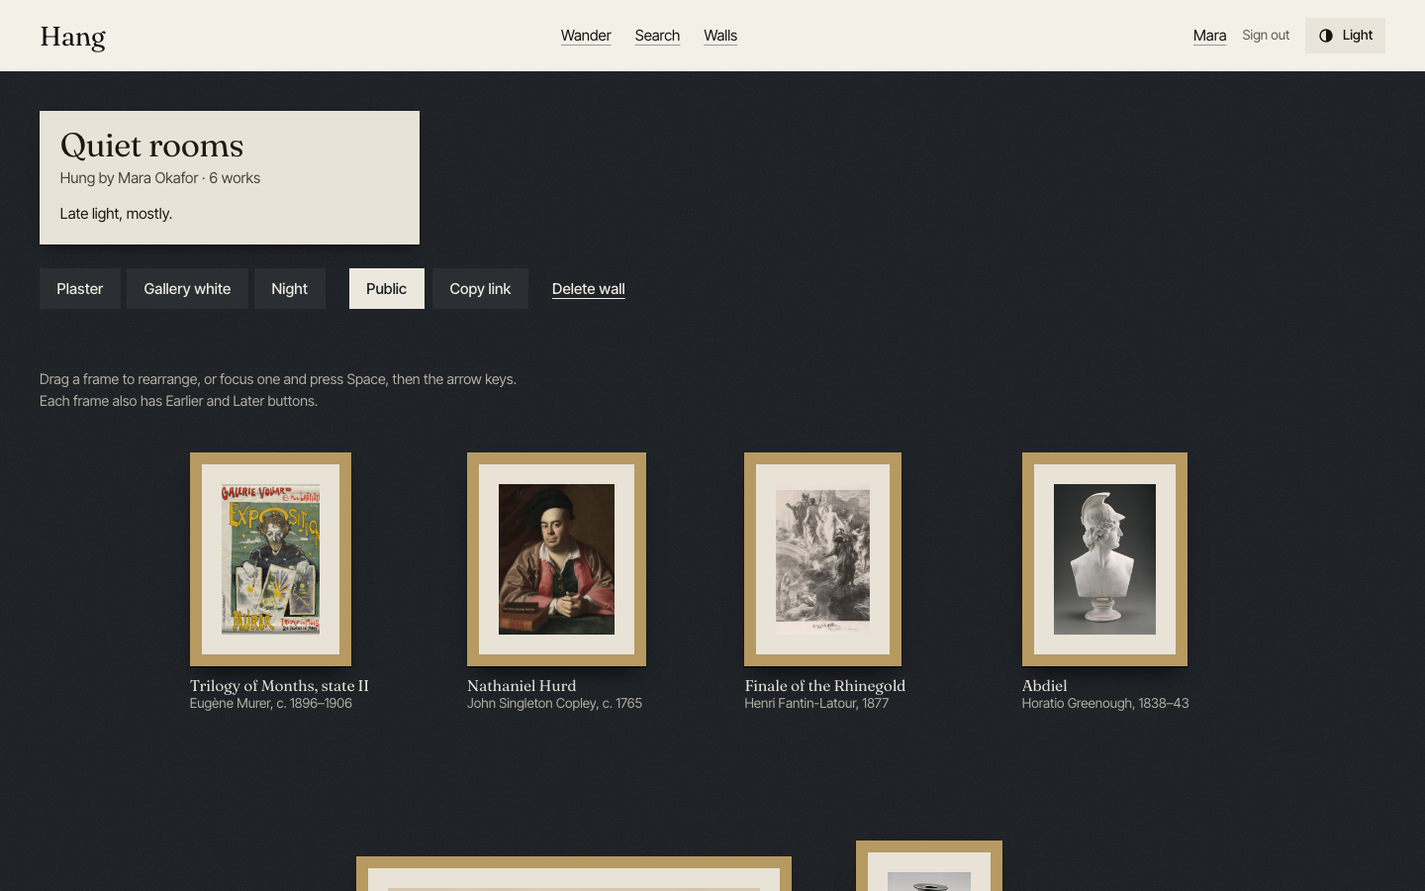
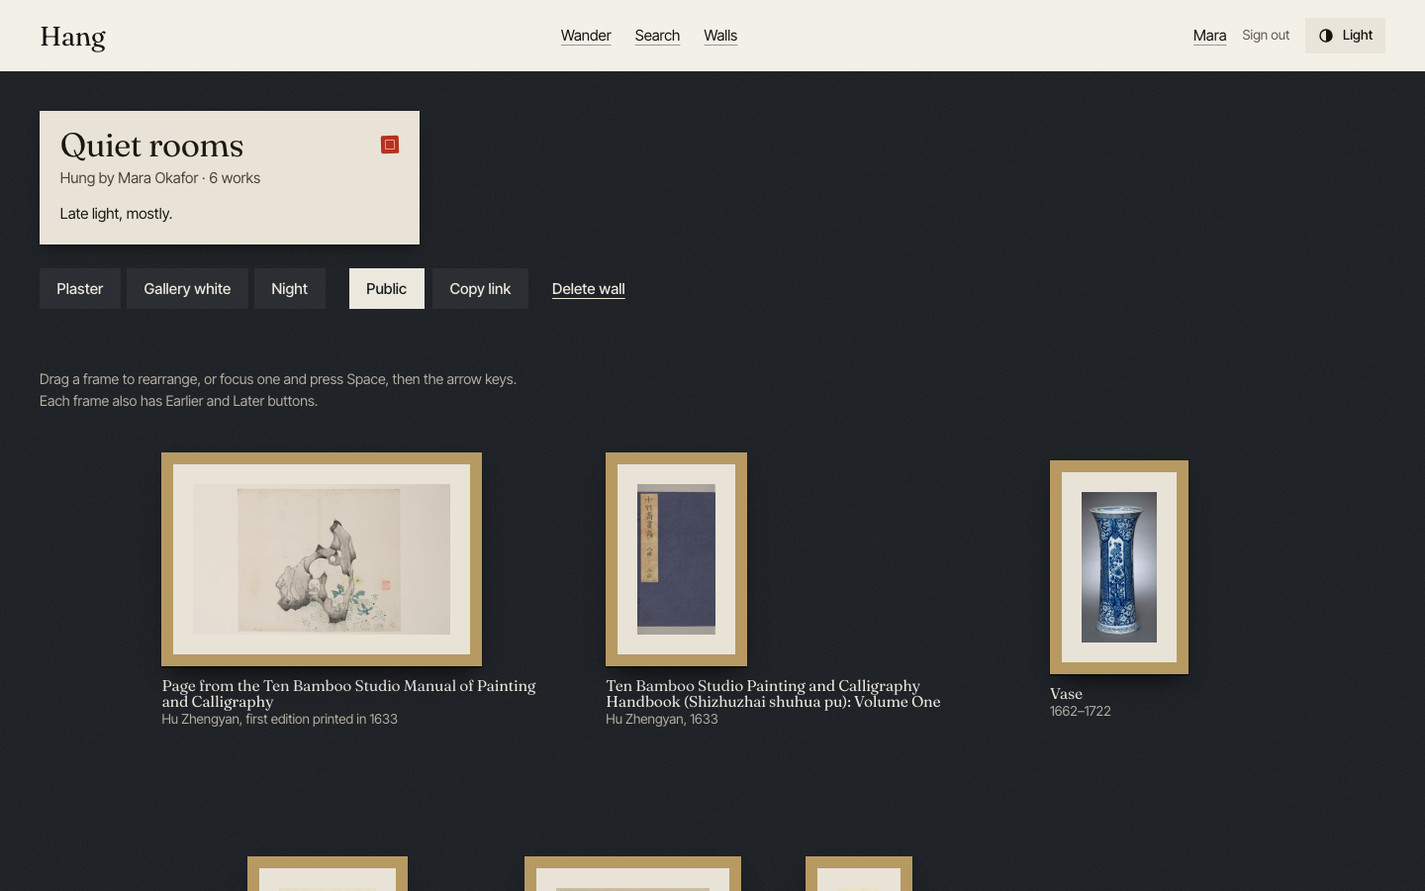
feat: Chinese art collection: dynasty and theme filters, on-theme daily piece, cinnabar accent, placard seal, updated tests, docs and screenshots

diff --git a/scripts/screenshots.ts b/scripts/screenshots.ts
@@ -1,6 +1,6 @@
 /**
  * Screenshots every page, light + dark, mobile + desktop.
- *   BASE_URL=http://localhost:3100 npm run screenshots -- pass1
+ *   BASE_URL=http://localhost:3100 npm run screenshots -- pass1 [home,search,art]   (optional page filter)
  * The server must be started with E2E_AUTH=1 so the test sign-in route exists.
  */
 import { chromium } from "@playwright/test";
@@ -8,6 +8,7 @@ import { mkdirSync } from "node:fs";
 
 const base = process.env.BASE_URL ?? "http://localhost:3100";
 const pass = process.argv[2] ?? "pass";
+const only = process.argv[3]?.split(",");
 const out = `screenshots/${pass}`;
 mkdirSync(out, { recursive: true });
 
@@ -22,6 +23,8 @@ const seed = await browser.newContext({ baseURL: base });
 await seed.request.post("/api/test/sign-in", { data: { key: "shots", name: "Mara Okafor" } });
 const wander = (await (await seed.request.get("/api/wander")).json()) as { items: Array<{ id: string }> };
 const ids = wander.items.map((i) => i.id);
+const dragons = (await (await seed.request.get("/api/search?theme=dragons&dynasty=qing,ming")).json()) as { items: Array<{ id: string }> };
+const artId = dragons.items[2]?.id ?? ids[3];
 const wall = await (await seed.request.post("/api/walls", { data: { title: "Blue hour, mostly", description: "Quiet rooms and late light.", isPublic: true, theme: "plaster" } })).json();
 for (const id of ids.slice(0, 7)) await seed.request.post(`/api/walls/${wall.id}/items`, { data: { artworkId: id } });
 const storage = await seed.storageState();
@@ -29,9 +32,9 @@ await seed.close();
 
 const pages: Array<{ name: string; path: string; auth?: boolean; wait?: string }> = [
   { name: "home", path: "/" },
-  { name: "search", path: "/search" },
-  { name: "search-color", path: "/search?hue=210&museum=aic,cma" },
-  { name: "art", path: `/art/${ids[3]}` },
+  { name: "search", path: "/search?q=dragon&theme=dragons" },
+  { name: "search-color", path: "/search?hue=210&dynasty=ming,qing" },
+  { name: "art", path: `/art/${artId}` },
   { name: "art-cma", path: `/art/${ids.find((i) => i.startsWith("cma:"))}` },
   { name: "wall-public", path: `/walls/${wall.slug}` },
   { name: "wall-owner", path: `/walls/${wall.slug}`, auth: true },
@@ -48,7 +51,7 @@ for (const size of sizes) {
         colorScheme: scheme, storageState: auth ? storage : undefined, deviceScaleFactor: 1,
       });
       const page = await ctx.newPage();
-      for (const p of pages.filter((x) => !!x.auth === auth)) {
+      for (const p of pages.filter((x) => !!x.auth === auth && (!only || only.includes(x.name)))) {
         await page.goto(p.path, { waitUntil: "networkidle" }).catch(() => {});
         await page.evaluate(async () => {
           for (let y = 0; y < document.body.scrollHeight; y += 700) { window.scrollTo(0, y); await new Promise((r) => setTimeout(r, 120)); }

diff --git a/scripts/ingest.ts b/scripts/ingest.ts
@@ -13,7 +13,7 @@ import { and, eq, inArray, sql } from "drizzle-orm";
 import { getDb, schema } from "../src/db";
 import { AIC_FIELDS, normalizeAic, normalizeCma, normalizeMet, type AicRaw, type CmaRaw, type MetRaw } from "../src/lib/adapters";
 import { centuryOf, orientationOf, type RawArtwork, type Source } from "../src/lib/artwork";
-import { analyseImage, rejectReason } from "../src/lib/ingest-image";
+import { analyseImage, metOriginalTooSmall, rejectReason } from "../src/lib/ingest-image";
 import { fetchJson, fetchWithRetry, hash01, mapLimit } from "../src/lib/retry";
 import { CHINA_THEMES, THEME_QUERIES, type ChinaTheme } from "../src/lib/themes";
 
@@ -29,7 +29,7 @@ const TARGET = parseInt(opt("target", "2000"), 10);
 const ONLY = opt("only", "cma,aic,met").split(",") as Source[];
 const FORCE = flag("force");
 /** Most works one museum may supply per theme. Cleveland and the Art Institute lean first; the Met fills what is left. */
-const CAP: Record<Source, number> = { cma: 150, aic: 120, met: 110 };
+const CAP: Record<Source, number> = { cma: 150, aic: 120, met: 200 };
 const THEME_TARGET = Math.round(TARGET / CHINA_THEMES.length);
 /** Trim themes that overshoot their target by more than this factor (works on walls or liked are never trimmed). */
 const OVERSHOOT = 1.15;
@@ -185,7 +185,15 @@ async function enrichAndStore(src: Source, items: Candidate[]) {
       const info = await analyseImage(Buffer.from(await res.arrayBuffer()));
       const width = a.width ?? info.width;
       const height = a.height ?? info.height;
-      const why = rejectReason({ width, height, dark: info.dark, light: info.light, spread: info.spread });
+      let why: string | null = null;
+      if (src === "met") {
+        // size from the original's file size (HEAD, nothing downloaded); the rest of the checks as usual
+        const head = await fetch(a.imageLarge, { method: "HEAD" }).catch(() => null);
+        const bytes = head?.ok ? Number(head.headers.get("content-length")) || null : null;
+        if (metOriginalTooSmall(bytes)) why = `tiny image (original ${bytes} bytes)`;
+        await pause(250);
+      }
+      why ??= rejectReason({ width, height, dark: info.dark, light: info.light, spread: info.spread }, { skipSize: src === "met" });
       if (why) { const k = why.replace(/\s*\(.*\)/, ""); rejected[k] = (rejected[k] ?? 0) + 1; return; }
       rows.push({
         id: a.id, source: a.source, nativeId: a.nativeId, title: a.title, artist: a.artist, date: a.date,

diff --git a/src/lib/ingest-image.ts b/src/lib/ingest-image.ts
@@ -40,13 +40,20 @@ export const MIN_SHORT_SIDE = 300;
  * tiny images, near-blank (white or flat) images, and photographs that are mostly black.
  * `width`/`height` should be the best-known size of the original image.
  */
-export function rejectReason(a: { width: number; height: number } & PixelStats): string | null {
-  if (Math.max(a.width, a.height) < MIN_LONG_SIDE || Math.min(a.width, a.height) < MIN_SHORT_SIDE) return `tiny image (${a.width}x${a.height})`;
+export function rejectReason(a: { width: number; height: number } & PixelStats, opts: { skipSize?: boolean } = {}): string | null {
+  if (!opts.skipSize && (Math.max(a.width, a.height) < MIN_LONG_SIDE || Math.min(a.width, a.height) < MIN_SHORT_SIDE)) return `tiny image (${a.width}x${a.height})`;
   if (a.dark > 0.85) return "mostly black";
   if (a.light > 0.92) return "mostly blank";
   if (a.spread < 0.03) return "flat / blank";
   return null;
 }
+
+/**
+ * The Met's API gives no pixel size, and its web-large renditions are capped near 600px whatever the original is.
+ * A normal-resolution JPEG original is several hundred KB at least, so a very small file means a very small image.
+ */
+export const MET_MIN_ORIGINAL_BYTES = 300_000;
+export const metOriginalTooSmall = (bytes: number | null) => bytes !== null && bytes < MET_MIN_ORIGINAL_BYTES;
 
 /** Decode an image buffer, read its aspect ratio and compute palette, hue/lightness and quality stats. */
 export async function analyseImage(buf: Buffer): Promise<ImageAnalysis> {

diff --git a/tests/dynasty-themes.test.ts b/tests/dynasty-themes.test.ts
@@ -2,7 +2,7 @@ import { describe, expect, it } from "vitest";
 import { DYNASTIES, parseDynasty } from "@/lib/dynasty";
 import { classifyThemes } from "@/lib/themes";
 import { mediumGroupOf } from "@/lib/artwork";
-import { pixelStats, rejectReason } from "@/lib/ingest-image";
+import { metOriginalTooSmall, pixelStats, rejectReason } from "@/lib/ingest-image";
 
 describe("parseDynasty", () => {
   it("lists the nine dynasties in order", () => {
@@ -105,6 +105,15 @@ describe("image quality gate", () => {
     expect(rejectReason({ ...ok, ...pixelStats(solid(3, 3, 3)) })).toMatch(/black/);
     expect(rejectReason({ ...ok, ...pixelStats(solid(255, 255, 255)) })).toMatch(/blank/);
     expect(rejectReason({ ...ok, ...pixelStats(solid(128, 120, 110)) })).toMatch(/flat/);
+  });
+  it("can skip the size check (the Met has no pixel sizes) while still catching blank images", () => {
+    expect(rejectReason({ width: 300, height: 300, ...pixelStats(noisy) }, { skipSize: true })).toBeNull();
+    expect(rejectReason({ width: 300, height: 300, ...pixelStats(solid(3, 3, 3)) }, { skipSize: true })).toMatch(/black/);
+  });
+  it("treats a tiny Met original (by file size) as tiny, and unknown sizes as fine", () => {
+    expect(metOriginalTooSmall(80_000)).toBe(true);
+    expect(metOriginalTooSmall(2_500_000)).toBe(false);
+    expect(metOriginalTooSmall(null)).toBe(false);
   });
   it("accepts a normal image", () => {
     expect(rejectReason({ ...ok, ...pixelStats(noisy) })).toBeNull();

diff --git a/README.md b/README.md
@@ -4,7 +4,7 @@
 
 ## What it does
 
-Hang is an art discovery and curation site. It gathers public-domain (CC0) artworks from the Art Institute of Chicago, the Met and the Cleveland Museum of Art into one searchable collection. Anyone can browse and search. Signed-in users build **walls** (curated collections), arrange them like a real gallery wall, and share them with a public link.
+Hang is a collection of **Chinese art** to look at slowly, then hang. It gathers public-domain (CC0) works from the Cleveland Museum of Art, the Art Institute of Chicago and the Met into one searchable collection: dragons, ink landscapes, bird-and-flower paintings, blue-and-white and celadon porcelain, jade, silk and embroidery, calligraphy and bronzes. Anyone can browse and search. Signed-in users build **walls** (curated collections), arrange them like a real gallery wall, and share them with a public link.
 
 | | |
 |---|---|
@@ -12,11 +12,11 @@ Hang is an art discovery and curation site. It gathers public-domain (CC0) artwo
 
 ## Features
 
-- **Today's piece**: a full-bleed daily artwork (deterministic per date) with a slow Ken Burns zoom and its five-colour palette.
+- **Today's piece**: a full-bleed daily artwork (deterministic per date) with a slow Ken Burns zoom and its five-colour palette. It is drawn only from dragons (robes, paintings, jars), ink landscapes, bird-and-flower paintings and porcelain, and only from works with a good image size. Tall works (robes, vases, scrolls) are shown whole on their own palette colour instead of being cropped.
 - **Wander**: a masonry grid with infinite scroll, staggered fade-in, and no layout shift (aspect ratios come from the database).
-- **Search**: Postgres full-text search with prefix matching, filter chips (museum, medium, century, orientation) and a 12-swatch colour picker (nearest hue). All state lives in the URL, so every search is shareable.
+- **Search**: Postgres full-text search with prefix matching, filter chips for **Theme** (eight themes), **Dynasty** (Shang, Zhou, Han, Tang, Song, Yuan, Ming, Qing, Republic period), museum, medium and orientation, and a 12-swatch colour picker (nearest hue). All state lives in the URL, so every search is shareable.
 - **Artwork page**: the page tints itself from the work's palette. True deep zoom with IIIF tiles for the Art Institute, pan/pinch/wheel zoom for the other two museums. A "More in this color" rail. Like and Add to wall. A link back to the museum. On phones the metadata panel becomes a bottom sheet.
-- **Walls**: three finishes (plaster, gallery white, night), framed works with a title placard, drag-to-reorder (dnd-kit) with keyboard alternatives, a per-wall Open Graph image, and public or private visibility.
+- **Walls**: three finishes (plaster, gallery white, night), framed works with a title placard marked by a small cinnabar-red seal square, drag-to-reorder (dnd-kit) with keyboard alternatives, a per-wall Open Graph image, and public or private visibility.
 - **Accessibility**: skip link, visible focus, descriptive alt text, full keyboard use including wall reorder (Space and arrows, or Earlier/Later buttons), `aria-live` status messages, `prefers-reduced-motion` honoured everywhere, light and dark themes plus a toggle.
 - **Security**: CSP that only allows the museum image hosts, `X-Frame-Options`, `Referrer-Policy`, `Permissions-Policy`. Every input is validated with Zod. Every mutation checks ownership and is rate limited. No secrets reach the client bundle.
 
@@ -58,13 +58,13 @@ flowchart LR
 
 ## Data sources and credits
 
-All artwork records and images come from the open-access programs of these museums, used under **CC0 / public domain** terms. Hang filters to public-domain works only.
+All artwork records and images come from the open-access programs of these museums, used under **CC0 / public domain** terms. Each museum adapter enforces its own gate, so nothing else can enter the database:
 
-- **[Art Institute of Chicago](https://api.artic.edu/docs/)**: public-domain works, IIIF images. Data available under CC0.
-- **[The Metropolitan Museum of Art](https://metmuseum.github.io/)**: Open Access collection, only `isPublicDomain=true` works.
-- **[Cleveland Museum of Art](https://openaccess-api.clevelandart.org/)**: Open Access (`cc0`) works.
+- **[Cleveland Museum of Art](https://openaccess-api.clevelandart.org/)**: department "Chinese Art", Open Access (`cc0`) works only.
+- **[Art Institute of Chicago](https://api.artic.edu/docs/)**: department "Arts of Asia", place of origin China, `is_public_domain` works only. IIIF images.
+- **[The Metropolitan Museum of Art](https://metmuseum.github.io/)**: department "Asian Art", culture containing "China", `isPublicDomain=true` works only.
 
-Each artwork page shows the museum's own credit line and links back to the museum page.
+Works with no image, tiny images, or mostly blank or mostly black photographs are skipped at ingest. Every read path (search, feed, detail, today's piece, rails, sitemap, likes) additionally filters to `collection = 'china'`, the marker that a work passed ingestion. Each artwork page shows the museum's own credit line and links back to the museum page.
 
 ## Tools and libraries, and why
 
@@ -93,6 +93,7 @@ PLAN.md                           the build plan, in order
 README.md                         this file
 drizzle.config.ts                 drizzle-kit configuration
 drizzle/0000_init.sql             the initial migration (tables, generated tsvector, indexes)
+drizzle/0001_chinese_art.sql      adds dynasty, themes and collection columns with indexes
 eslint.config.mjs                 ESLint flat config (next core-web-vitals + typescript)
 next.config.ts                    security headers, CSP, image host allow-list
 package.json                      scripts and dependencies
@@ -104,7 +105,8 @@ docs/                             README screenshots
 e2e/browse.spec.ts                E2E: home, search, detail, zoom, headers, theme, 404, API validation
 e2e/helpers.ts                    E2E: mocked sign-in helper
 e2e/walls.spec.ts                 E2E: sign in, create wall, add art, reorder, public view, ownership
-scripts/ingest.ts                 seeds Postgres from the three museums (idempotent, retry, backoff)
+scripts/ingest.ts                 seeds Postgres with Chinese art from the three museums (idempotent, retry, backoff, theme-balanced, quality-gated)
+scripts/prune.ts                  one-off cleanup: removes non-Chinese works and test accounts/walls
 scripts/migrate.ts                applies SQL migrations to DATABASE_URL
 scripts/screenshots.ts            light/dark x mobile/desktop screenshots of every page
 scripts/readme-shots.ts           captures the README images
@@ -144,14 +146,16 @@ src/components/*                  UI: header/footer, theme toggle, cards, hero, 
 src/lib/adapters/{aic,met,cma}.ts one adapter per museum -> shared Artwork type
 src/lib/artwork.ts                Artwork type, ids, century/medium/orientation helpers
 src/lib/color.ts                  palette extraction, HSL, hue distance, contrast
-src/lib/ingest-image.ts           sharp image analysis (ingest only)
+src/lib/dynasty.ts                dynasty list and the parser (text first, then year)
+src/lib/themes.ts                 the eight themes, ingest search terms, keyword classifier, daily-piece themes
+src/lib/ingest-image.ts           sharp image analysis and the quality gate (ingest only)
 src/lib/queries.ts                cached reads: search, wander, daily, detail, walls
 src/lib/services/walls.ts         all mutations: validation, ownership, rate limit
 src/lib/validation.ts             Zod schemas
 src/lib/rate-limit.ts             sliding-window limiter
 src/lib/retry.ts                  fetch with retry/backoff, concurrency helper, stable hash
 src/lib/errors.ts, api.ts, blur.ts, slug.ts   small shared helpers
-tests/*.test.ts                   unit tests (adapters, color, retry, services, actions)
+tests/*.test.ts                   unit tests (adapters, dynasty/themes/quality, color, retry, queries, services, actions)
 tests/fixtures/*.json             recorded museum API responses
 tests/helpers/db.ts               in-memory Postgres for tests
 ```
@@ -178,7 +182,7 @@ cp .env.example .env.local   # then fill in the four values
 ```bash
 # 4. create the tables and load artworks
 npm run db:migrate
-npm run ingest            # ~1,000 per museum; re-run any time, it resumes
+npm run ingest            # ~250 works per theme; re-run any time, it resumes and only adds what is missing
 ```
 
 ## How to run it
@@ -195,7 +199,7 @@ npm run test:e2e          # Playwright (builds and serves the app on :3100)
 npm run build             # production build
 ```
 
-`npm run ingest -- --per-museum 50 --only aic,cma` is handy for a small test seed. Add `--force` to recompute colours.
+`npm run ingest -- --target 200 --only cma,aic` is handy for a small test seed. Add `--force` to re-analyse works that are already stored. After switching an older database to Chinese art, `npm run prune` (`npx tsx scripts/prune.ts --dry` to preview) removes the leftover non-Chinese works and test accounts.
 
 ## How it was built
 
@@ -208,6 +212,7 @@ npm run build             # production build
 7. Designed and built the UI: tokens, type, light/dark, home, search, artwork page, walls, `/me`, error pages.
 8. Ran the app, took screenshots of every page (light/dark, mobile/desktop), critiqued them, fixed what was off, and repeated.
 9. Wrote Playwright E2E tests, ran Lighthouse, tightened accessibility and performance.
+10. Narrowed the collection to Chinese art: gated each adapter to its Chinese department, added dynasty and theme fields (parsed from museum wording), replaced the century filter with Dynasty and Theme, made the ingest balance by theme with an image-quality gate, restricted today's piece to on-theme works, and moved the accent to cinnabar red.
 
 ## Key concepts
 
@@ -215,6 +220,9 @@ npm run build             # production build
 - **Idempotent ingestion.** Upserts by stable id plus skip-if-present means re-running is safe, which matters when a museum rate-limits you.
 - **Retry with exponential backoff and jitter.** The standard way to be a polite API client; it honours `Retry-After`.
 - **Postgres full-text search.** A generated `tsvector` with weights (title > artist > culture > medium) and a GIN index. Prefix queries (`van:*`) make results appear while typing.
+- **Dynasty parsing.** Museums write dynasties as free text ("Qing dynasty (1644–1911), Yongzheng reign"). The parser reads the museum's own wording (never the title: "Song" and "Han" are ordinary words), prefers the earliest mention, recognises reign names, and only falls back to the year when no dynasty is named. If a period outside the nine is named (Jin, Liao, Sui ...) it leaves the field empty rather than guess.
+- **Theme classification.** Keyword rules over title, medium, classification and tags, with guard rails (an "ink landscape" must be a painting, not a vase; a silk-painted fan is not a textile). A work can have several themes.
+- **Defence in depth for what is shown.** Adapters only accept the right department and licence; ingest rejects tiny and blank images; and every query also filters on `collection = 'china'`, so one layer failing cannot surface a wrong work.
 - **Colour search.** Hue is circular (350 and 10 are 20 apart), so distance wraps around 360. Neutral works are excluded by a saturation floor.
 - **Authorization at the service layer.** Every mutation goes through one function that checks the session, validates input, rate limits, and verifies ownership, so server actions and REST handlers can't disagree.
 - **Server vs client components.** Pages are server-rendered and cached; the session is read client-side so pages stay cacheable.
@@ -224,8 +232,11 @@ npm run build             # production build
 
 ## Notes on this build
 
-- **Lighthouse (mobile, simulated throttling, production build):** home 90 to 94, artwork page 92, search 100. Accessibility, best practices and SEO score 100. Performance on the home page varies run to run and sits close to the 90 line, because the hero image is fetched through the image optimizer on a cold cache.
-- **Met coverage.** The Met's API is fronted by a bot filter that temporarily blocked this machine's IP while ingesting. The ingest script waits and backs off but does not try to evade the block, so the Met share depends on how much it allows. Re-running `npm run ingest -- --only met` resumes where it left off.
+- **Collection size.** 1,757 works: Cleveland 815, Art Institute 458, Met 484. That is short of the ~2,000 goal: the Cleveland and Art Institute Chinese departments are exhausted for these themes, and most remaining Met candidates fail the image-size check. By theme (a work can have several): dragons 287, ink landscapes 280, bird-and-flower 243, blue-and-white & celadon 298, jade 282, calligraphy 280, bronzes 281, silk & embroidery 184. Silk & embroidery is the thin one: Cleveland's and the Art Institute's Chinese departments hold almost no textiles, so it is nearly all Met.
+- **Met images are smaller.** The Met's web images top out around 600px, so its works look softer in the grid and detail view than Cleveland's and the Art Institute's. Deep zoom uses the Met's original.
+
+- **Lighthouse (mobile, simulated throttling, production build, after the switch to Chinese art):** home 94, artwork page 93. Accessibility, best practices and SEO score 100. Performance varies a little run to run.
+- **Met politeness.** The Met's API is fronted by a bot filter that blocked this machine's IP once before. The Met collector now runs strictly one request at a time at about one per second, waits out a block at most twice, and gives up instead of pushing. Re-running `npm run ingest -- --only met` resumes where it left off.
 - **Rate limiting** is in memory per server instance (see `DECISIONS.md`).
 
 ## Deploy to Vercel

diff --git a/DECISIONS.md b/DECISIONS.md
@@ -17,4 +17,16 @@ Judgement calls made without stopping to ask.
 - **Rate limiting:** in-memory sliding window per user per action. It resets per serverless instance, which is fine as abuse friction; a shared store (Upstash) is the upgrade path.
 - **Sessions:** Auth.js database sessions through the Drizzle adapter (so ownership is checked against a real user row).
 - **E2E sign-in is mocked** with a test-only credentials provider that is only enabled when `E2E_AUTH=1`, never in production builds.
-- **Ingest size:** ~1,000 per museum, concurrency-limited, with backoff and `ON CONFLICT DO UPDATE` for idempotency.
+- **Ingest size (original):** ~1,000 per museum, concurrency-limited, with backoff and `ON CONFLICT DO UPDATE` for idempotency.
+
+## Switch to Chinese art
+
+- **"The content filter from the last task".** The previous task had no separate content filter, so I treated this as the gate that was already there: public domain / CC0 only. It is now enforced in three places: each adapter (licence + Chinese department), the ingest quality check, and a `collection = 'china'` condition on every read query. If you meant a different filter, tell me what it hid.
+- **`collection` column instead of wiping first.** Rows ingested for this collection carry `collection = 'china'`; everything older is `legacy`. I ingested first, checked the counts, then ran `prune`, so the database was never empty. Wall items and likes cascade away with their artworks.
+- **Test data removed.** Test accounts (`@e2e.test`) and their walls were deleted with the legacy works. There were no real user accounts.
+- **Themes are many-to-many.** `themes text[]` with a GIN index; a dragon robe is both Dragons and Silk & embroidery. The ingest balances by theme *deficit* (target ≈ total / 8 per theme), asks Cleveland and the Art Institute first, then lets the Met fill what is left, and trims themes that overshoot by more than 15% (never touching works on a wall or liked).
+- **Textiles come from the Met.** Cleveland's and the Art Institute's Chinese departments hold almost no textiles (those live in separate Textile departments, which the brief did not name), so the Silk & embroidery theme is mostly Met.
+- **Dynasty list is the nine named.** Works from other periods (Jin, Liao, Sui, Neolithic cultures ...) get no dynasty and simply do not appear under the dynasty chips. Dynasty is parsed from the museum's culture/period/date text first, then the year.
+- **Met image size.** The Met API gives no pixel size and its web renditions top out near 600px, so "tiny" is judged from the original image's file size (a HEAD request). The Met works are therefore shown at about 600px in the grid and detail view; deep zoom uses the original.
+- **Today's piece.** Only dragon, ink landscape, bird-and-flower and porcelain works whose shorter side is at least 600px; tall works are shown whole (object-contain) on their own palette colour instead of being cropped.
+- **Accent.** Cinnabar `#b02a1c` on paper and `#ec7e69` in dark mode (both AA on every surface). The wall placard seal is a plain flat red square with a carved inner square: no characters, no decorative motifs, no special fonts.

diff --git a/PLAN.md b/PLAN.md
@@ -16,3 +16,4 @@ Each step ends in a working state and its own conventional commit.
 9. **Tests**: action tests (auth + ownership), Playwright E2E with mocked sign-in.
 10. **Polish**: Playwright screenshots (light/dark x mobile/desktop), critique, at least two passes.
 11. **Ship**: lint, typecheck, unit, E2E, `next build`; README with diagram; deploy checklist.
+12. **Chinese art focus**: Chinese-only adapters, dynasty + theme fields, theme-balanced ingest with quality gate, prune, Dynasty/Theme filters, on-theme daily piece, cinnabar accent and placard seal.
